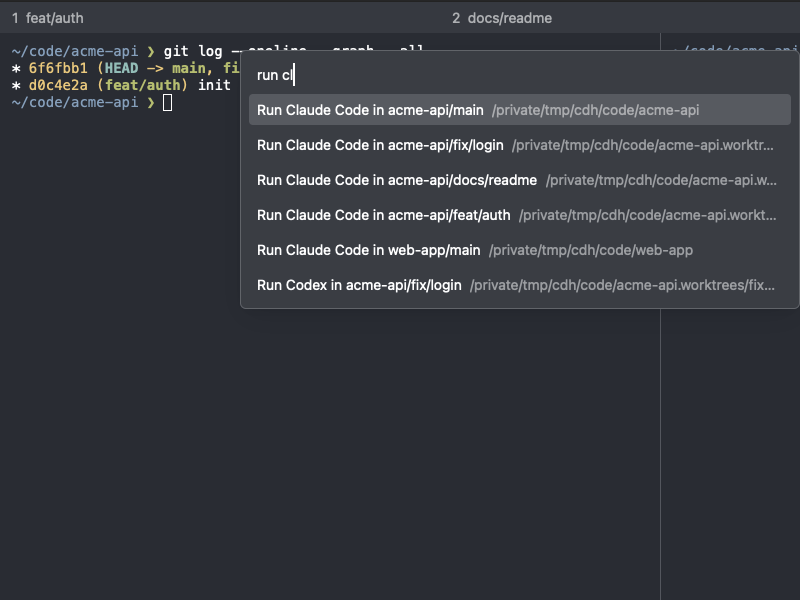
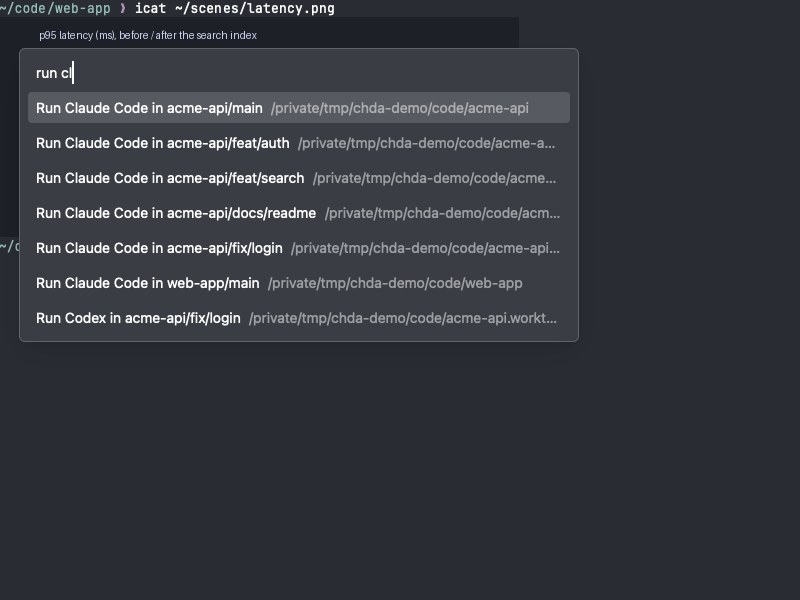
docs: refresh the demo GIF and screenshots for the new sidebar and agent features
The demo is half as long (12 s instead of 24 s) with no long pauses: unchanged
screens are held under a second. It shows agents going from working to
waiting, an agent creating a worktree with a note through chda mcp, the diff
and merged badges, a Mermaid block with its View diagram button and an
inline image. The hero image, sidebar and palette shots and the social
preview are taken from the same session.

Changed region(s): [[0.0, 0.0, 1.0, 0.54], [0.8438, 0.06, 1.0, 0.09]]

diff --git a/docs/site/index.html b/docs/site/index.html
@@ -77,7 +77,7 @@
       <code id="cmd">brew tap magicsih/tap &amp;&amp; brew trust magicsih/tap &amp;&amp; brew install --cask chda</code>
       <button type="button" onclick="navigator.clipboard.writeText(document.getElementById('cmd').textContent).then(()=>{this.textContent='Copied'})">Copy</button>
     </div>
-    <div class="hero"><img src="demo.gif" alt="Creating a worktree, launching Claude Code, watching its status in the sidebar and merging the branch back" width="1200" height="750"></div>
+    <div class="hero"><img src="demo.gif" alt="Agents report working and waiting in the sidebar, an agent creates a worktree with a note through chda mcp, a Mermaid diagram gets a View diagram button and an image shows inline" width="1200" height="750"></div>
   </header>
 
   <section>
@@ -95,7 +95,7 @@
   <section>
     <h2>What it looks like</h2>
     <div class="shots">
-      <img src="sidebar.png" alt="The sidebar: repositories, worktrees with git badges, agent status dots and pull request state" width="800" height="600">
+      <img src="sidebar.png" alt="The sidebar: worktrees labeled by their notes, diff and merged badges, agent status dots and the ACTIVE list" width="800" height="600">
       <img src="palette.png" alt="The command palette listing worktrees, agent launches and sessions" width="800" height="600">
     </div>
   </section>

diff --git a/README.md b/README.md
@@ -1,5 +1,5 @@
 <p align="center">
-  <img src="docs/media/hero.png" alt="chda: a terminal with a git worktree sidebar showing agent status, tabs and splits" width="880">
+  <img src="docs/media/hero.png" alt="chda: a git worktree sidebar with notes, diff badges and agent status next to a terminal showing a Mermaid diagram" width="880">
 </p>
 
 <h1 align="center">chda</h1>
@@ -47,7 +47,7 @@ and adds pull request badges. On a managed Mac where Homebrew cannot write to
 ## Sixty-second tour
 
 <p align="center">
-  <img src="docs/media/demo.gif" alt="Creating a worktree, running Claude Code, watching its status and merging back" width="880">
+  <img src="docs/media/demo.gif" alt="Agents report working and waiting in the sidebar, an agent creates a worktree with a note through chda mcp, a Mermaid diagram gets a View diagram button and an image shows inline" width="880">
 </p>
 
 1. Press `cmd-shift-o` (or click "+ repo") and pick a git repository. It appears in
